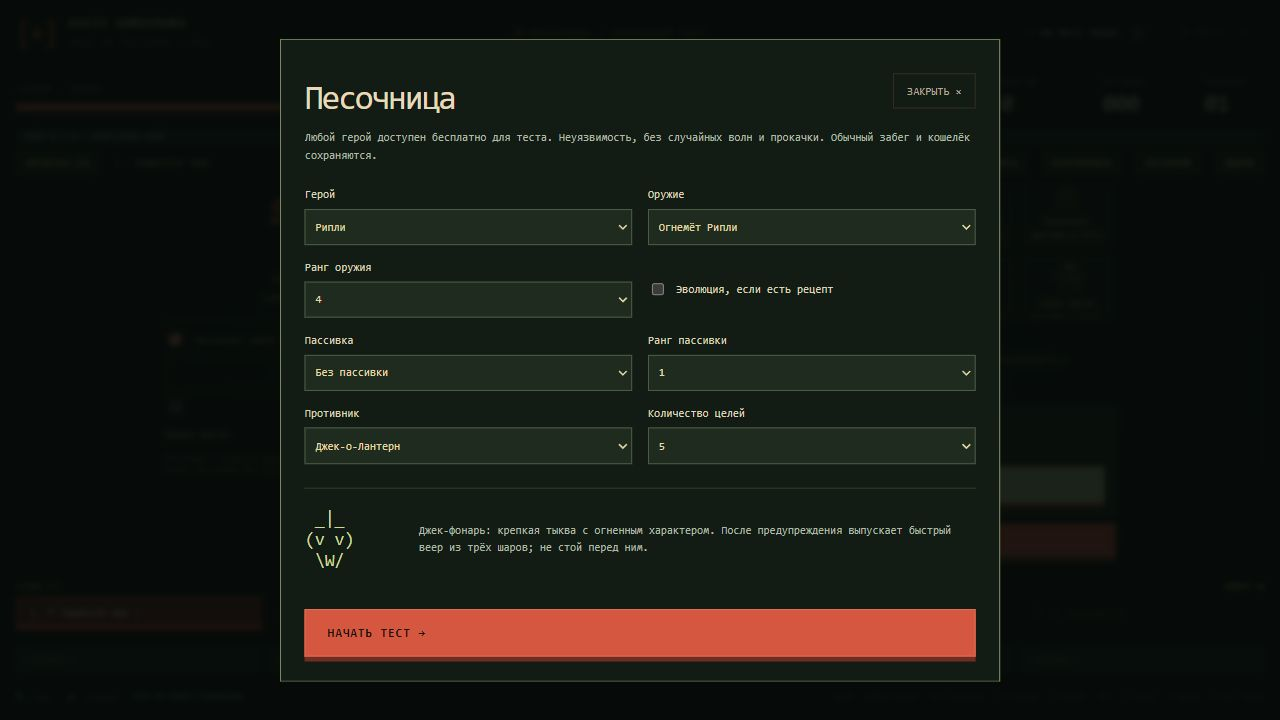
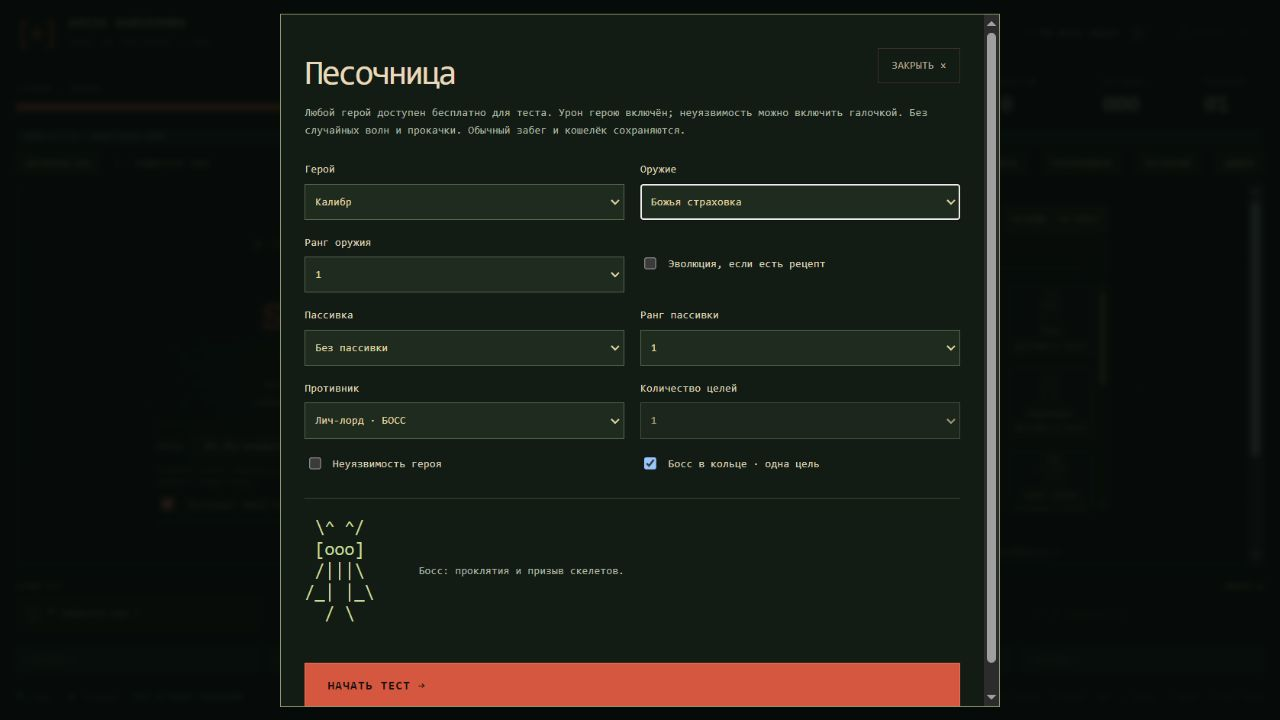
Enable sandbox boss damage and mix early ranged and charge threats

Changed region(s): [[0.2188, 0.0, 0.875, 1.0], [0.2188, 0.4278, 0.3438, 0.6722], [0.6875, 0.0611, 0.7188, 0.0917]]

diff --git a/core.js b/core.js
@@ -121,6 +121,7 @@
         const recipe=EVOLUTION_BY_WEAPON[this.selectedWeapon] || EVOLUTIONS.find(r=>r.weapons?.includes(this.selectedWeapon));
         if(config.evolved&&recipe){for(const id of [recipe.weapon,...(recipe.weapons||[])])this.levels[id]=UPGRADES.find(u=>u.id===id).max;for(const [id,rank]of Object.entries(recipe.passives))while(this.levels[id]<rank)this.applyUpgrade(UPGRADES.find(u=>u.id===id));this.evolve(recipe);}
         this.sandboxEnemy=Object.hasOwn(ENEMIES,config.enemy)?config.enemy:'dummy';this.sandboxCount=clamp(Math.floor(Number(config.count)||1),1,20);this.sandboxClock=0;
+        this.sandboxInvulnerable = config.invulnerable === true; this.sandboxArena = config.arena !== false;
         this.treasures=[];
       }
     }
@@ -141,10 +142,17 @@
     }
     spawnSandboxTargets() {
       if(!this.sandboxMode)return;
-      for(let i=0;i<this.sandboxCount;i++){
+      const ring = this.sandboxArena && ENEMIES[this.sandboxEnemy]?.boss;
+      if (ring) { this.player.x=this.player.prevX=clamp(this.player.x,this.arenaRadius+90,this.width-this.arenaRadius-90); this.player.y=this.player.prevY=clamp(this.player.y,this.arenaRadius+90,this.height-this.arenaRadius-90); }
+      for(let i=0;i<(ring?1:this.sandboxCount);i++){
         const angle=this.sandboxCount===1?0:i*TAU/this.sandboxCount, distance=this.sandboxCount===1?150:180;
         const e=this.spawn(this.sandboxEnemy==='dummy'?'ghoul':this.sandboxEnemy,this.player.x+Math.cos(angle)*distance,this.player.y+Math.sin(angle)*distance);
         if(this.sandboxEnemy==='dummy')Object.assign(e,{title:'Манекен',sprite:' ._.\n[+|+]\n / \\',frames:undefined,trainingDummy:true,hp:10000,maxHp:10000,speed:0,damage:0,skill:undefined,xp:0,ink:9,knockbackResistance:1});
+        if (ring) {
+          this.encounter = { phase:'locked', x:this.player.x, y:this.player.y, radius:this.arenaRadius, warningLeft:0, lockedLeft:BALANCE.arenaSeconds, bossId:e.id, kind:e.kind };
+          e.arenaMember=1; this.resolveArena(e); e.prevX=e.x;e.prevY=e.y;
+          this.player.invulnerable=1; this.lastBoss=e.title; this.events.push('boss');
+        }
       }
       this.buildGrid();
     }
@@ -204,7 +212,7 @@
       this.drawOffers(this.rerollCandidates()); this.rerollsUsed++; return true;
     }
     get weaponPages() { return Math.max(1, Math.ceil(this.inventory(true).length / 5)); }
-    get wavePlan() { return EnemySystem.wave(ENEMIES, this.pressureTime, this.stressMode,this.map,this.elapsed); }
+    get wavePlan() { return EnemySystem.wave(ENEMIES, this.pressureTime, this.stressMode,this.map,this.elapsed,this.seed); }
     isEvolved(id) { return this.evolutions.has(EVOLUTION_BY_WEAPON[id]?.id); }
     isConsumed(id) { return EVOLUTIONS.some(e => this.evolutions.has(e.id) && e.weapons?.includes(id)); }
     weaponInfo(id) { return this.isEvolved(id) ? EVOLUTION_BY_WEAPON[id] : UPGRADES.find(u => u.id === id); }
@@ -428,17 +436,19 @@
     spawnWave() {
       const plan = this.wavePlan, kind = this.stressMode ? EnemySystem.weighted(plan.entries, () => this.random()) : null;
       const count = Math.min(this.stressMode ? 128 : plan.group, this.stressMode ? 2 + Math.floor(this.waveAge / 45) : Math.max(0, plan.target - this.enemies.length), this.enemyLimit - this.enemies.length - (this.encounter?.phase === 'warning' ? 1 : 0));
-      const counts = { ranged: 0, special: 0, elite: 0 };
+      const counts = { ranged: 0, charge: 0, special: 0, elite: 0 };
       if (!this.stressMode) for (const e of this.enemies) if (e.alive && !e.boss) {
         if (e.ai === 'ranged') counts.ranged++;
+        if (e.ai === 'charge') counts.charge++;
         if (EnemySystem.roleOf(e) === 'special') counts.special++;
         if (e.rank === 'elite') counts.elite++;
       }
       for (let i = 0; i < count; i++) {
-        const candidates = this.stressMode ? plan.entries : plan.entries.filter(row => (!row.ranged || counts.ranged < plan.quotas.ranged) && (row.role !== 'special' || counts.special < plan.quotas.special) && (!row.elite || counts.elite < plan.quotas.elite));
+        const candidates = this.stressMode ? plan.entries : plan.entries.filter(row => (!row.ranged || counts.ranged < plan.quotas.ranged) && (!row.charge || counts.charge < plan.quotas.charge) && (row.role !== 'special' || counts.special < plan.quotas.special) && (!row.elite || counts.elite < plan.quotas.elite));
         if (!candidates.length) break;
         const enemy = this.spawn(this.stressMode ? kind : EnemySystem.weighted(candidates, () => this.random()));
         if (enemy.ai === 'ranged') counts.ranged++;
+        if (enemy.ai === 'charge') counts.charge++;
         if (EnemySystem.roleOf(enemy) === 'special') counts.special++;
         if (enemy.rank === 'elite') counts.elite++;
       }
@@ -506,7 +516,7 @@
       }
       if (e.hp > 0) return;
       e.alive = false; this.holyMarks.delete(e.id); this.waterHits.delete(e.id); this.burnMarks.delete(e.id); this.kills++;
-      if(this.sandboxMode){this.burst(e.x,e.y,e.ink,8,weapon);return;}
+      if(this.sandboxMode){if(this.encounter?.bossId===e.id)this.releaseArena('sandbox-clear');this.burst(e.x,e.y,e.ink,8,weapon);return;}
       if (this.kills % 5 === 0) this.awardGold(1);
       if (e.boss) this.bossKills++;
       if (e.boss) {
@@ -526,7 +536,7 @@
     }
     hurtPlayer(damage, source) {
       const p = this.player;
-      if (this.stressMode || p.invulnerable > 0 || this.status !== 'running') return;
+      if (damage <= 0 || (this.sandboxMode ? this.sandboxInvulnerable : this.stressMode) || p.invulnerable > 0 || this.status !== 'running') return;
       if (this.isEvolved('laurel')) damage = Math.min(10, damage);
       if (this.shieldCharges > 0 && this.shieldUntil > this.time) {
         this.shieldCharges--; p.invulnerable = .4; this.events.push('shield');
@@ -986,7 +996,7 @@
         this.resolveTerrain(e); this.resolveArena(e); e.prevX = e.x; e.prevY = e.y;
         this.burst(e.x, e.y, e.ink, 10);
       } else if (e.ai === 'charge') {
-        e.chargeTime = e.roster ? e.movement.chargeDuration : e.boss ? .65 : .45;
+        e.chargeTime = EnemySystem.chargeAttack(e).duration;
         if (e.kind === 'alienQueen') this.queueSummons(e, 'alien', 2);
       }
     }
@@ -1011,10 +1021,10 @@
         speed = 0; e.windup = Math.max(0, e.windup - dt);
         if (e.windup === 0) this.enemySkill(e);
       } else if (e.chargeTime > 0) {
-        e.chargeTime = Math.max(0, e.chargeTime - dt); vx = e.chargeX; vy = e.chargeY; speed = (e.boss ? 380 : 340) * slow;
+        e.chargeTime = Math.max(0, e.chargeTime - dt); vx = e.chargeX; vy = e.chargeY; speed = EnemySystem.chargeAttack(e).speed * slow;
         if (e.roster && e.chargeTime === 0) e.skillClock = e.movement.recoveryDuration + e.movement.trackingDuration;
       } else if (e.skill && e.skillClock <= 0 && d < (e.ai === 'charge' ? 620 : 850)) {
-        e.skillClock = this.isFirstBoss(e) ? BALANCE.firstBossSkill : e.skill; e.windup = e.roster ? e.movement.windupDuration : e.ai === 'darklord' ? 1.6 : e.ai === 'blink' ? .95 : e.boss ? .8 : .6;
+        e.skillClock = this.isFirstBoss(e) ? BALANCE.firstBossSkill : e.skill; e.windup = e.ai === 'charge' ? EnemySystem.chargeAttack(e).windup : e.roster ? e.movement.windupDuration : e.ai === 'darklord' ? 1.6 : e.ai === 'blink' ? .95 : e.boss ? .8 : .6;
         e.chargeX = ex / d; e.chargeY = ey / d;
         const angle = this.random() * TAU;
         e.targetX = clamp(p.x + Math.cos(angle) * 150, 28, this.width - 28);
@@ -1070,9 +1080,11 @@
       if (!this.encounter && megaAge >= rosterAt && !this.enemies.some(e => e.alive && e.boss) && this.enemies.length < this.enemyLimit) {
         const boss = this.spawn(rosterBoss); this.rosterBossIndex++; this.lastBoss = boss.title; this.events.push(boss.mega ? 'mega-boss' : 'boss');
       }
-      } else if(!this.enemies.some(e=>e.alive)) {
-        this.sandboxClock+=dt;if(this.sandboxClock>=1){this.spawnSandboxTargets();this.sandboxClock=0;}
-      } else this.sandboxClock=0;
+      } else {
+        this.updateEncounter(dt);
+        if(!this.enemies.some(e=>e.alive)){this.sandboxClock+=dt;if(this.sandboxClock>=1){this.spawnSandboxTargets();this.sandboxClock=0;}}
+        else this.sandboxClock=0;
+      }
       this.peakEnemies = Math.max(this.peakEnemies, this.enemies.length);
       for (const e of this.enemies) if (e.alive) {
         e.prevX = e.x; e.prevY = e.y;
@@ -1115,7 +1127,7 @@
         }
       }
       this.updateWeapons(dt);
-      for (const e of this.enemies) if (e.alive && Math.hypot(e.x - p.x, e.y - p.y) < p.radius + e.radius) this.hurtPlayer(e.damage, e);
+      for (const e of this.enemies) if (e.alive && Math.hypot(e.x - p.x, e.y - p.y) < p.radius + e.radius) this.hurtPlayer(e.damage * (e.chargeTime > 0 ? 1.35 : 1), e);
       this.enemies = this.enemies.filter(e => e.alive);
 
       for (const gem of this.gems) {

diff --git a/game.js b/game.js
@@ -10,7 +10,7 @@
   let selectedCharacter = progress.profile.character;
   let fireModePreference = progress.profile.fireMode;
   $('enemy-limit').value = progress.profile.enemyLimit;
-  function options() { return { map:$('stage-select').value,fireMode:fireModePreference, stressMode:$('stress-mode').checked, sandboxMode:$('sandbox-mode').checked, sandbox:{weapon:$('sandbox-weapon').value,rank:Number($('sandbox-rank').value),passive:$('sandbox-passive').value,passiveRank:Number($('sandbox-passive-rank').value),evolved:$('sandbox-evolved').checked,enemy:$('sandbox-enemy').value,count:Number($('sandbox-count').value)}, enemyLimit:Number($('enemy-limit').value),meta:progress.profile.meta.ranks }; }
+  function options() { return { map:$('stage-select').value,fireMode:fireModePreference, stressMode:$('stress-mode').checked, sandboxMode:$('sandbox-mode').checked, sandbox:{weapon:$('sandbox-weapon').value,rank:Number($('sandbox-rank').value),passive:$('sandbox-passive').value,passiveRank:Number($('sandbox-passive-rank').value),evolved:$('sandbox-evolved').checked,enemy:$('sandbox-enemy').value,count:Number($('sandbox-count').value),invulnerable:$('sandbox-invulnerable').checked,arena:$('sandbox-arena').checked}, enemyLimit:Number($('enemy-limit').value),meta:progress.profile.meta.ranks }; }
   let game = new NightGame(Date.now(), selectedCharacter, options()), keys = new Set();
   const equipmentTooltip = document.createElement('div'); equipmentTooltip.id = 'equipment-tooltip'; equipmentTooltip.className = 'equipment-tooltip'; equipmentTooltip.setAttribute('role', 'tooltip'); equipmentTooltip.hidden = true; shell.append(equipmentTooltip);
   let tooltipAnchor = null, previewWeapon = null;
@@ -325,6 +325,7 @@
     $('sandbox-evolution-description').hidden=!$('sandbox-evolved').checked;
     text('sandbox-evolution-description',recipe?recipe.title+' · '+recipe.description+' Все ингредиенты рецепта выдаются для теста.':'Для выбранного оружия нет рецепта.');
     const enemy=NightEnemies[$('sandbox-enemy').value],passive=NightUpgrades.find(u=>u.id===$('sandbox-passive').value);
+    $('sandbox-arena').disabled=!enemy?.boss;$('sandbox-count').disabled=Boolean(enemy?.boss&&$('sandbox-arena').checked);
     text('sandbox-enemy-art',enemy?.sprite || ' ._.\n[+|+]\n / \\');text('sandbox-enemy-description',enemy?.description || 'Неподвижная цель с 10 000 HP. После зачистки выбранные цели появятся снова.');
     for(const option of $('sandbox-passive-rank').options)option.disabled=Number(option.value)>(passive?.max||1);
     if(Number($('sandbox-passive-rank').value)>(passive?.max||1))$('sandbox-passive-rank').value='1';
@@ -464,7 +465,7 @@
     $('fire-touch').hidden = !manual; $('stress-controls').hidden = !game.stressMode || game.sandboxMode;
     text('hero-label', game.character.name.toUpperCase() + ' / ЖИЗНЬ');
     text('fps', status === 'running' && displayFPS ? displayFPS + ' FPS / AUTO' : 'РЕНДЕР / AUTO');
-    text('hp-text', game.stressMode ? 'НЕУЯЗВИМОСТЬ' : Math.ceil(p.hp) + ' / ' + p.maxHp);
+    text('hp-text', (game.sandboxMode ? game.sandboxInvulnerable : game.stressMode) ? 'НЕУЯЗВИМОСТЬ' : Math.ceil(p.hp) + ' / ' + p.maxHp);
     $('hp-bar').style.width = (p.hp / p.maxHp * 100) + '%';
     $('xp-bar').style.width = Math.min(100, game.xp / game.xpNeed * 100) + '%';
     text('xp-text', 'ОПЫТ ' + game.xp + ' / ' + game.xpNeed + ' · КРИСТАЛЛЫ ' + Math.round(game.xpEfficiency * 100) + '%');
@@ -529,7 +530,7 @@
         saveBest(); const won = status === 'won';
         text('ending-title', won ? 'Ты встретил рассвет' : 'Ночь победила');
         text('ending-caption', won ? 'СОЛНЦЕ ВЗОШЛО НАД КЛАДБИЩЕМ' : 'КЛАДБИЩЕ ПОЛУЧИЛО ЕЩЁ ОДНУ ДУШУ');
-        text('ending-text', 'Сохранено ' + game.goldAvailable + ' золота. На рероллы потрачено ' + game.rerollGoldSpent + '. Постоянные улучшения ждут в «Наследии» на стартовом экране.');
+        text('ending-text', game.sandboxMode ? 'Тест окончен. Обычный забег, золото и покупки не изменились.' : 'Сохранено ' + game.goldAvailable + ' золота. На рероллы потрачено ' + game.rerollGoldSpent + '. Постоянные улучшения ждут в «Наследии» на стартовом экране.');
         text('ending-art', won ? ' \\ | /\n-- * --\n / | \\' : ' .-.\n(x x)\n |=|\n_|_|_');
         text('result-time', formatTime(game.elapsed)); text('result-kills', game.kills); text('result-level', game.level);
         $('restart').focus({ preventScroll: true });
@@ -550,7 +551,7 @@
     game.start(); canvas.focus({ preventScroll: true }); updateHUD();
     preferences(); saveCheckpoint();
     if (game.stressMode && !game.sandboxMode) { $('engine-panel').hidden = false; $('metrics-toggle').setAttribute('aria-expanded', 'true'); }
-    notify(game.sandboxMode?'ПЕСОЧНИЦА: меняй героя, оружие и цели кнопкой сверху.':game.stressMode?'ТЕСТ: весь арсенал, неуязвимость, нарастающая нагрузка.':'Бесконечная арена · M — авто / ручной огонь.');
+    notify(game.sandboxMode?'ПЕСОЧНИЦА: '+(game.sandboxInvulnerable?'НЕУЯЗВИМОСТЬ ВКЛЮЧЕНА. ':'УРОН ГЕРОЮ ВКЛЮЧЁН. ')+'Настройки — кнопкой сверху.':game.stressMode?'ТЕСТ: весь арсенал, неуязвимость, нарастающая нагрузка.':'Бесконечная арена · M — авто / ручной огонь.');
   }
   function restart() {
     saveBest();
@@ -627,7 +628,7 @@
   $('enemy-limit').addEventListener('change', configureRun);$('stage-select').addEventListener('change',()=>configureRun());
   $('sandbox-open').addEventListener('click',openSandbox);$('sandbox-open-live').addEventListener('click',openSandbox);
   $('sandbox-close').addEventListener('click',()=>$('sandbox-settings').close());
-  for(const id of ['sandbox-enemy','sandbox-passive','sandbox-weapon','sandbox-hero','sandbox-evolved'])$(id).addEventListener('change',updateSandboxPreview);
+  for(const id of ['sandbox-enemy','sandbox-passive','sandbox-weapon','sandbox-hero','sandbox-evolved','sandbox-arena'])$(id).addEventListener('change',updateSandboxPreview);
   $('sandbox-apply').addEventListener('click',()=>{
     if(!game.sandboxMode)return;
     sandboxWasRunning=false;selectedCharacter=$('sandbox-hero').value;$('sandbox-settings').close();
@@ -739,7 +740,7 @@
       const room = game.encounter?.phase === 'locked' ? game.encounter : null;
       camera.x += ((room ? room.x : p.prevX + (p.x - p.prevX) * alpha) - camera.x) * factor;
       camera.y += ((room ? room.y : p.prevY + (p.y - p.prevY) * alpha) - camera.y) * factor;
-      if (game.wave !== lastWave) { lastWave = game.wave; notify('ВОЛНА ' + game.wave + ' — НЕ ОСТАНАВЛИВАЙСЯ'); }
+      if (game.wave !== lastWave) { lastWave = game.wave; if(!game.sandboxMode)notify('ВОЛНА ' + game.wave + ' — НЕ ОСТАНАВЛИВАЙСЯ'); }
     } else accumulator = 0;
     simulationMS += (performance.now() - simulationStart - simulationMS) * .1;
     if (game.events.includes('boss')) notify('БОСС: ' + game.lastBoss.toUpperCase());

diff --git a/enemy-system.js b/enemy-system.js
@@ -18,7 +18,10 @@
     { id: 'abyss', from: 1200, to: 1800, title: 'Бездонный натиск', roles: ['heavy', 'fast', 'special'], weights: [33, 22, 34, 36, 7] }
   ].map(stage => Object.freeze({ ...stage, roles: Object.freeze(stage.roles), weights: Object.freeze(stage.weights) })));
   const roleOf = e => e.role || (['ranged', 'summoner', 'blink'].includes(e.ai) ? 'special' : 'normal');
-  function wave(enemies, age, stress, map, elapsed=age) {
+  function chargeAttack(e) {
+    return { speed:e.boss ? 380 : 340, duration:e.roster ? e.movement.chargeDuration : e.boss ? .65 : .45, windup:e.roster ? Math.max(.8,e.movement.windupDuration) : e.boss ? 1 : .85 };
+  }
+  function wave(enemies, age, stress, map, elapsed=age, seed=0) {
     const minute = Math.floor(age / 60), stage = stages.find(s => age >= s.from && age < s.to) || stages[5 + minute % 3];
     const roles = age >= 360 && !stress ? ['normal', ...stage.roles] : ['swarm', 'normal', ...stage.roles];
     const available = Object.entries(enemies).filter(([, e]) => !e.boss && (e.roster ? e.at <= age : e.at <= age * .65));
@@ -33,6 +36,13 @@
     if (!selected.length) selected.push(['grave_rat', enemies.grave_rat]);
     const forestMinute=Math.floor(elapsed/60),forest=!stress&&map?.waves,forestWave=forest&&map.waves[forestMinute<30?forestMinute:24+forestMinute%6];
     if(forestWave)selected.splice(0,selected.length,...Object.keys(forestWave.enemies).map(id=>[id,enemies[id]]));
+    const support = new Set();
+    if (!stress && elapsed >= 45) for (const ai of ['ranged','charge']) {
+      if (selected.some(([,e])=>e.ai===ai)) continue;
+      const pool = Object.entries(enemies).filter(([,e])=>!e.boss && e.ai===ai && e.at<=elapsed);
+      if (!pool.length) continue;
+      const entry = pool[(Math.floor(elapsed/20)+(seed>>>0))%pool.length];selected.push(entry);support.add(entry[0]);
+    }
     const surge = !stress && minute >= 2 && age % 60 < 10, recovery = !stress && minute >= 2 && age % 60 >= 48;
     const phase = stress ? 'stress' : surge ? 'surge' : recovery ? 'recovery' : 'pressure';
     // Pressure comes from composition and refill, not a mandatory 666-enemy floor.
@@ -42,14 +52,14 @@
     const interval = stress ? Math.max(.24, .85 - age / 4000) : Math.max(.15, .85 - Math.min(age, 360) / 1200 - afterSix / 900) * (surge ? .8 : recovery ? 1.35 : 1);
     const group = stress ? Math.min(8, 2 + Math.floor(age / 180)) : Math.max(3, Math.min(32, 3 + Math.floor(Math.min(age, 360) / 60) + Math.floor(afterSix / 20) + (surge ? 2 : recovery ? -2 : 0)));
     const danger = !stress && age >= 360;
-    const quotas = { ranged: Math.max(1, Math.min(danger ? 24 : 16, Math.floor(target * (danger ? .04 : .025)))), special: Math.max(2, Math.min(danger ? 60 : 36, Math.floor(target * (danger ? .12 : .06)))), elite: Math.max(1, Math.min(danger ? 45 : 28, Math.floor(target * (danger ? .09 : .04)))) };
-    return { id: forestWave?'forest-'+forestMinute:stage.id, title: forestWave?.title||stage.title, phase, phaseTitle: stress ? 'Нагрузочный тест' : surge ? 'Наплыв' : recovery ? 'Передышка' : 'Натиск', target, interval, group, surge, quotas, entries: selected.map(([id, e]) => ({ id, role: roleOf(e), ranged: e.ai === 'ranged', elite: e.rank === 'elite', weight: forestWave?forestWave.enemies[id]:e.ai === 'ranged' ? danger ? 12 : 5 : stage.weights[['swarm', 'normal', 'fast', 'heavy', 'special'].indexOf(roleOf(e))] || 6 })) };
+    const quotas = { ranged: Math.max(1, Math.min(danger ? 18 : 8, Math.floor(target * (danger ? .07 : .06)))), charge:Math.max(1,Math.min(danger?8:4,Math.floor(target*.03))), special: Math.max(3, Math.min(danger ? 70 : 40, Math.floor(target * (danger ? .18 : .14)))), elite: Math.max(1, Math.min(danger ? 45 : 28, Math.floor(target * (danger ? .09 : .04)))) };
+    return { id: forestWave?'forest-'+forestMinute:stage.id, title: forestWave?.title||stage.title, phase, phaseTitle: stress ? 'Нагрузочный тест' : surge ? 'Наплыв' : recovery ? 'Передышка' : 'Натиск', target, interval, group, surge, quotas, entries: selected.map(([id, e]) => ({ id, role: roleOf(e), ranged: e.ai === 'ranged', charge:e.ai==='charge', elite: e.rank === 'elite', weight:support.has(id)?e.ai==='ranged'?20:16:forestWave?forestWave.enemies[id]:e.ai === 'ranged' ? danger ? 12 : 5 : stage.weights[['swarm', 'normal', 'fast', 'heavy', 'special'].indexOf(roleOf(e))] || 6 })) };
   }
   function weighted(entries, random) {
     let roll = random() * entries.reduce((sum, e) => sum + e.weight, 0);
     return entries.find(e => (roll -= e.weight) < 0)?.id || entries[0].id;
   }
-  const api = { movement, wave, weighted, stages, roleOf };
+  const api = { movement, wave, weighted, stages, roleOf, chargeAttack };
   root.NightEnemySystem = api;
   if (typeof module !== 'undefined' && module.exports) module.exports = api;
 })(typeof globalThis !== 'undefined' ? globalThis : window);

diff --git a/renderer.js b/renderer.js
@@ -204,7 +204,14 @@
         if (e.hp < e.maxHp && e.maxHp > 70) this.world(p.x, p.y - top - 12, '-'.repeat(Math.ceil(e.hp / e.maxHp * 5)), 6);
         if (e.windup > 0) {
           this.world(p.x, p.y - top - 26, '!', 7);
-          if (e.ai === 'charge') this.line(p, { x: p.x + e.chargeX * 180, y: p.y + e.chargeY * 180 }, 6, ':');
+          if (e.ai === 'charge') {
+            const attack = root.NightEnemySystem.chargeAttack(e), distance = attack.speed * attack.duration * (e.chilledTill > game.time ? .4 : 1), half = e.radius + game.player.radius;
+            for (const offset of [-half,0,half]) {
+              const start = {x:p.x-e.chargeY*offset,y:p.y+e.chargeX*offset};
+              this.line(start,{x:start.x+e.chargeX*distance,y:start.y+e.chargeY*distance},12,offset?':':'=');
+            }
+            this.world(p.x+e.chargeX*distance,p.y+e.chargeY*distance,Math.abs(e.chargeX)>Math.abs(e.chargeY)?e.chargeX>0?'>>':'<<':e.chargeY>0?'vv':'^^',12);
+          }
         }
       }
       for (const { p, sprite, ink } of megaBodies) {

diff --git a/docs/FOREST.md b/docs/FOREST.md
@@ -4,6 +4,12 @@
 
 Референсы: [план Mad Forest](https://vampire.survivors.wiki/images/Tilemap-Mad_Forest.png?5476d), [описание и расписание волн](https://vampire.survivors.wiki/w/Mad_Forest). Взяты открытая планировка, перекрёсток, редкие препятствия, водоёмы, сад и принцип смены состава по минутам. ASCII-силуэты и геометрия нарисованы в коде; используется наш бестиарий и наш баланс.
 
+Таблица ниже задаёт основу волн. На обеих аренах примерно с 0:45 подмешиваются стрелки (тыквы и личи), с 1:30 — рывковые враги (оборотни и затем чужие). Дополнительный вид каждого архетипа меняется каждые 20 секунд с учётом seed забега; сами появления случайные с весами. Первые 45 секунд остаются вводными. Всего не более семи видов одновременно в пуле; стрелки и рывковые враги имеют отдельные лимиты численности.
+
+Перед рывком враг замирает минимум на 0,8 секунды. Оранжевые границы показывают полную опасную полосу с учётом размеров тел, стрелка — направление. Направление фиксируется в начале предупреждения: можно уйти в сторону или использовать рывок героя. Попадание во время броска наносит на 35% больше контактного урона. Расстояние предупреждения и физика используют общие параметры атаки.
+
+![Коридоры рывков](screenshots/charge-warning.png)
+
 На стартовом экране выбери арену «Лес без возврата». Кладбище тоже доступно. Весь мир 12 800 × 9 600, ориентиры повторяются участками 3 200 × 2 400. Стартовый перекрёсток и обе главные дороги свободны. Сосны, дубы, пни и камни — твёрдые препятствия, вода и цветы — проходимые декорации. Под печатью босса препятствия временно отключаются, как на кладбище.
 
 Карта сокровищ показывает дороги, пруды, сады и доступные тайники. Её постоянное открытие за золото продолжает работать. Песочница позволяет проверять эффекты на фоне любой выбранной арены, но без препятствий.
